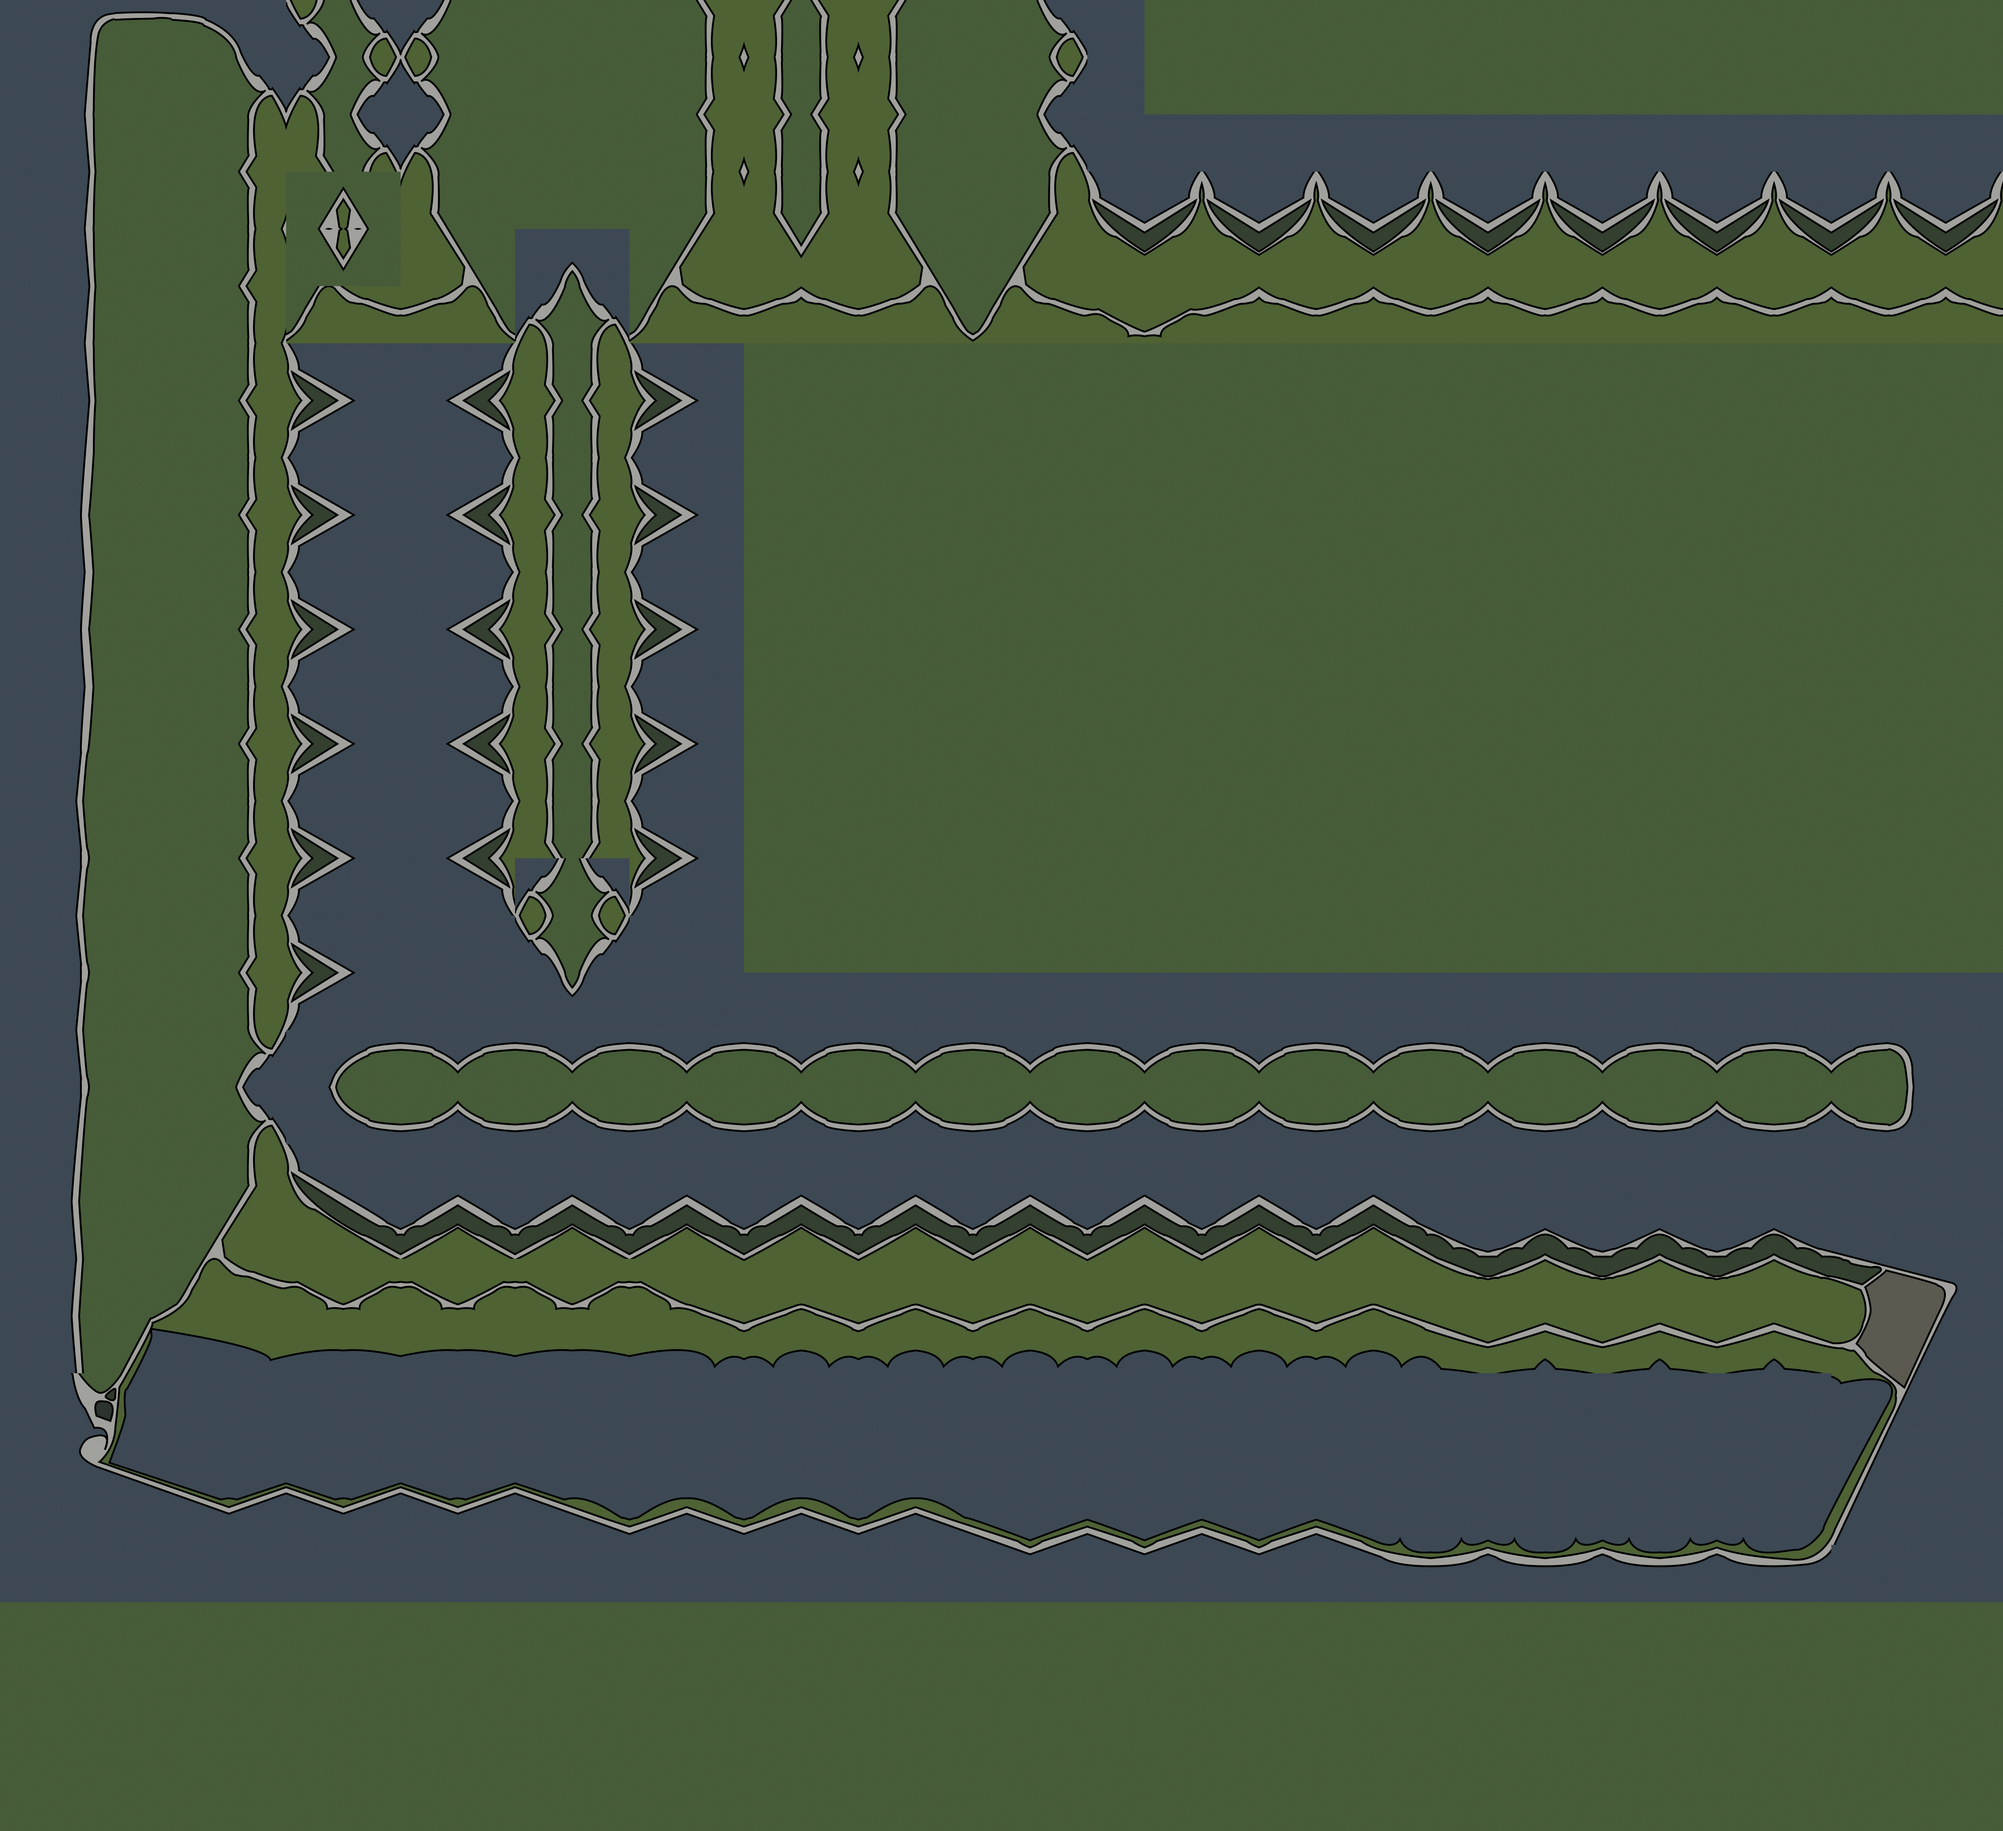
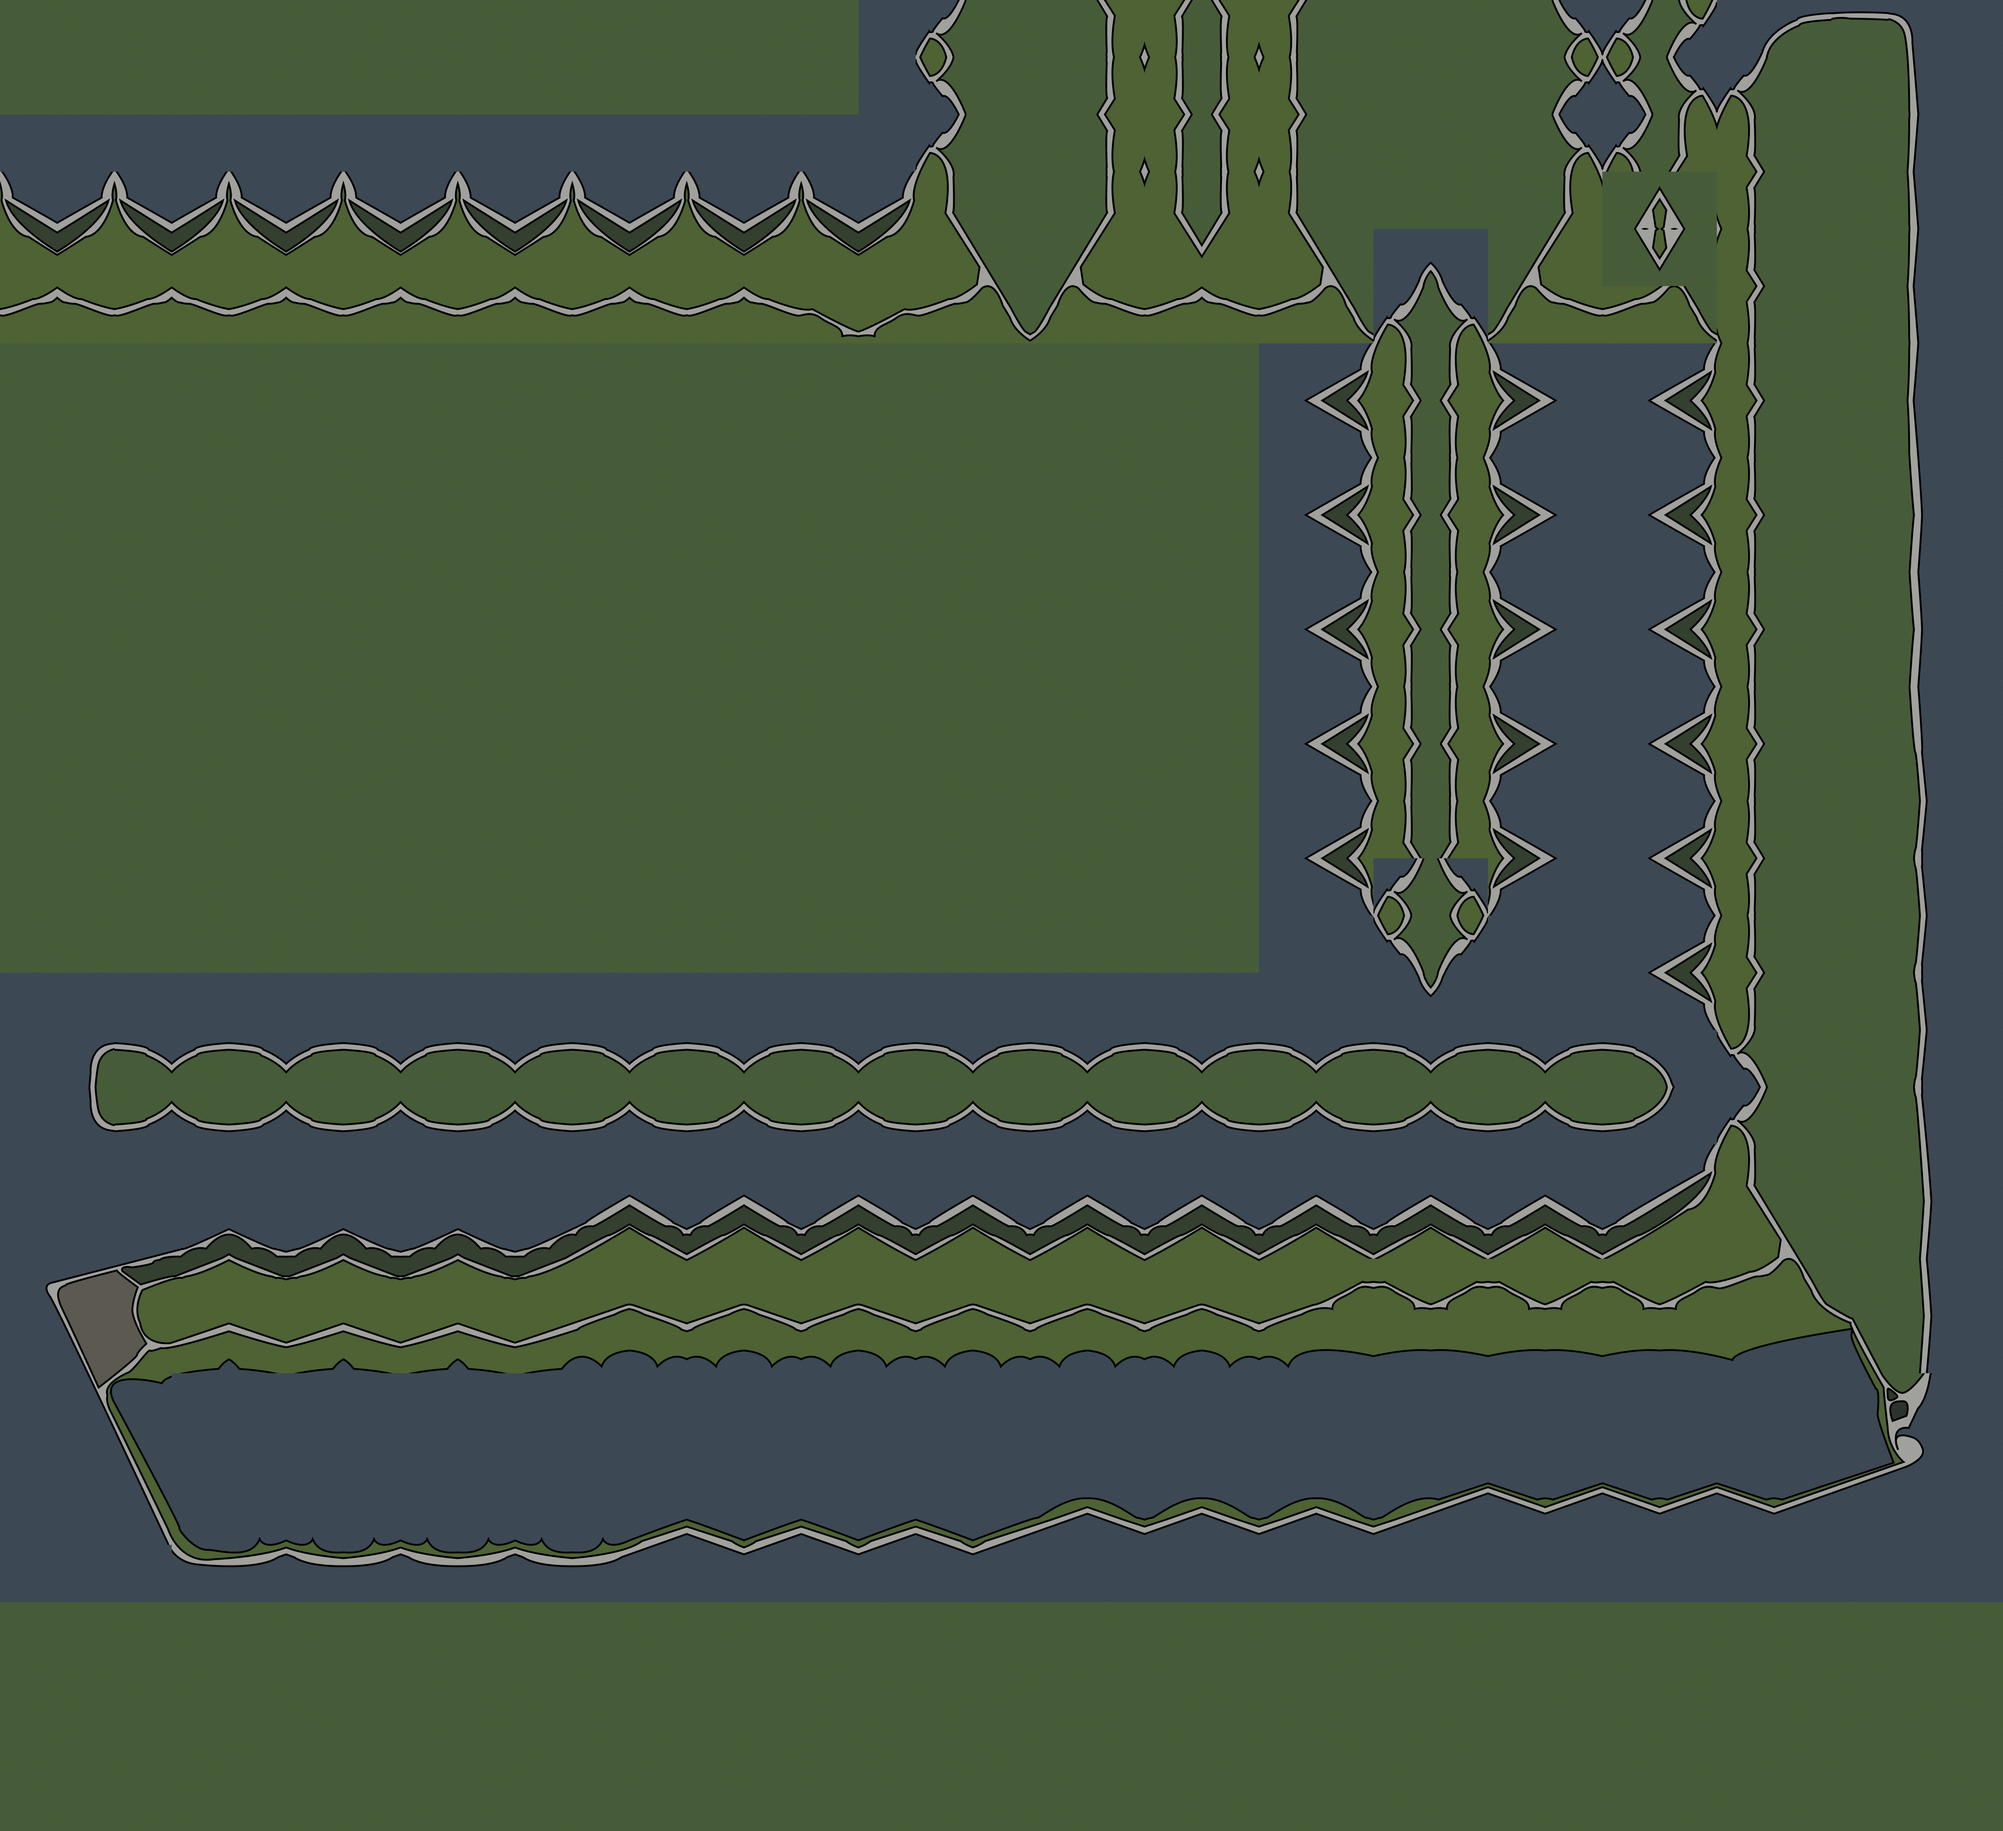
Player-enemy interaction impleneted. Additional animations as well.

diff --git a/level.py b/level.py
@@ -5,10 +5,11 @@ from tile import Tile
 from player import Player
 from debug import debug 
 from support import *
-from random import choice, random
+from random import choice, random, randint
 from weapon import Weapon
 from ui import UI
 from enemy import Enemy
+from particles import AnimationPlayer
 
 class Level:
 	def __init__(self):
@@ -22,6 +23,8 @@ class Level:
 
 		#attack sprites
 		self.current_attack = None
+		self.attack_sprites = pygame.sprite.Group()
+		self.attackable_sprites = pygame.sprite.Group()
 
 		# sprite setup 
 		self.create_map()
@@ -29,17 +32,21 @@ class Level:
 		#user interface 
 		self.ui = UI()
 
+		#particles 
+		self.animation_player = AnimationPlayer()
+
 	def create_map(self):
 		layouts = {
 			#'boundary': import_csv_layout('./map/map_FloorBlocks.csv'),
-			'boundary': import_csv_layout('./map/marshmapMkII_ground.csv'),
-			'grass': import_csv_layout('./map/map_Grass.csv'),
-			'object': import_csv_layout('./map/map_Objects.csv'),
-			'entities': import_csv_layout('./map/map_Entities.csv')
+			'boundary': import_csv_layout('./nic_map/nic_BoundaryBlocks.csv'),
+			'grass': import_csv_layout('./nic_map/nic_Grass.csv'),
+			'object': import_csv_layout('./nic_map/nic_Objects.csv'),
+			'entities': import_csv_layout('./nic_map/nic_Entities.csv')
 		}
 		grpahics = {
-			'grass': import_folder('./graphics/grass'),
-			'objects': import_folder('./graphics/objects'),
+			#'grass': import_folder('./graphics/grass'),
+			'grass': import_folder('./nic_map/grass'),
+			'objects': import_folder('./nic_map/objects'),
 		}
 
 		for style,layout in layouts.items():
@@ -56,7 +63,7 @@ class Level:
 						#creating grass tiles 
 						if style == 'grass':
 							random_grass_image = choice(grpahics['grass'])
-							Tile((x,y),[self.visible_sprites, self.obstacle_sprites],'grass',random_grass_image)				
+							Tile((x,y),[self.visible_sprites, self.obstacle_sprites,self.attackable_sprites],'grass',random_grass_image)				
 						
 						if style == 'object':
 							surf = grpahics['objects'][int(col)]
@@ -76,10 +83,16 @@ class Level:
 								elif col == '391': monster_name = 'spirit'
 								elif col == '392': monster_name = 'raccoon'
 								else: monster_name = 'squid'
-								Enemy(monster_name,(x,y),[self.visible_sprites],self.obstacle_sprites)
+								Enemy(
+									monster_name,
+									(x,y),
+									[self.visible_sprites,self.attackable_sprites],
+									self.obstacle_sprites,
+									self.damage_player,
+									self.trigger_death_particles)
 
 	def create_attack(self):
-		self.current_attack = Weapon(self.player,[self.visible_sprites])
+		self.current_attack = Weapon(self.player,[self.visible_sprites,self.attack_sprites])
 	
 	def create_magic(self,style,strength,cost):
 		print(style)
@@ -91,11 +104,37 @@ class Level:
 			self.current_attack.kill()
 		self.current_attack = None
 
+	def player_attack_logic(self):
+		if self.attack_sprites:
+			for attack_sprite in self.attack_sprites:
+				collision_sprites = pygame.sprite.spritecollide(attack_sprite,self.attackable_sprites,False)
+				if collision_sprites:
+					for target_sprite in collision_sprites:
+						if target_sprite.sprite_type == 'grass':
+							pos = target_sprite.rect.center
+							offset = pygame.math.Vector2(0,75)
+							for leaf in range(randint(3,6)):
+								self.animation_player.create_grass_particles(pos - offset,[self.visible_sprites])
+							target_sprite.kill()
+						else:
+							target_sprite.get_damage(self.player,attack_sprite.sprite_type)
+	
+	def damage_player(self,amount,attack_type):
+		if self.player.vulnerable:
+			self.player.health -= amount
+			self.player.vulnerable = False
+			self.player.hurt_time = pygame.time.get_ticks()
+			self.animation_player.create_particles(attack_type,self.player.rect.center,[self.visible_sprites])
+
+	def trigger_death_particles(self,pos,particle_type):
+		self.animation_player.create_particles(particle_type,pos,self.visible_sprites)
+
 	def run(self):
 		# update and draw game 
 		self.visible_sprites.custom_draw(self.player)
 		self.visible_sprites.update()
 		self.visible_sprites.enemy_update(self.player)
+		self.player_attack_logic()
 		self.ui.display(self.player)
 		#debug(self.player.status)
 
@@ -110,8 +149,8 @@ class YSortCameraGroup(pygame.sprite.Group):
 		self.offset = pygame.math.Vector2()
 
 		#creating the floor 
-		#self.floor_surf = pygame.image.load('./graphics/tilemap/ground.png')
-		self.floor_surf = pygame.image.load('./graphics/tilemap/MarshMapMkII.png')
+		self.floor_surf = pygame.image.load('./nic_map/64Map.png')
+		#self.floor_surf = pygame.image.load('./graphics/tilemap/MarshMapMkII.png')
 		self.floor_rect = self.floor_surf.get_rect(topleft = (0,0))
 
 	def custom_draw(self,player):

diff --git a/enemy.py b/enemy.py
@@ -4,7 +4,7 @@ from entity import Entity
 from support import *
 
 class Enemy(Entity):
-	def __init__(self,monster_name,pos,groups,obstacle_sprites):
+	def __init__(self,monster_name,pos,groups,obstacle_sprites,damage_player,trigger_death_particles):
 
 		# general setup
 		super().__init__(groups)
@@ -36,6 +36,13 @@ class Enemy(Entity):
 		self.can_attack = True
 		self.attack_time = None
 		self.attack_cooldown = 400
+		self.damage_player = damage_player
+		self.trigger_death_particles = trigger_death_particles
+
+		#invulnerablilty timer 
+		self.vulnerable = True 
+		self.hit_time = None 
+		self.invincibility_duration = 300
 
 	def import_graphics(self,name):
 		self.animations = {'idle':[],'move':[],'attack':[]}
@@ -70,7 +77,7 @@ class Enemy(Entity):
 	def actions(self,player):
 		if self.status == 'attack':
 			self.attack_time = pygame.time.get_ticks()
-			print('attack')
+			self.damage_player(self.attack_damage,self.attack_type)
 		elif self.status == 'move':
 			self.direction = self.get_player_distance_direction(player)[1]
 		else:
@@ -88,16 +95,46 @@ class Enemy(Entity):
 		self.image = animation[int(self.frame_index)]
 		self.rect = self.image.get_rect(center = self.hitbox.center)
 
-	def cooldown(self):
+		if not self.vulnerable:
+			alpha = self.wave_value()
+			self.image.set_alpha(alpha)
+		else:
+			self.image.set_alpha(255)
+
+	def cooldowns(self):
+		current_time = pygame.time.get_ticks()
 		if not self.can_attack:
-			current_time = pygame.time.get_ticks()
 			if current_time - self.attack_time >= self.attack_cooldown:
-				self.can_attack = True
+				self.can_attack = True 
+		if not self.vulnerable:
+			if current_time - self.hit_time >= self.invincibility_duration:
+				self.vulnerable = True
+
+	def get_damage(self,player,attack_type):
+		if self.vulnerable:
+			self.direction = self.get_player_distance_direction(player)[1]
+			if attack_type == 'weapon':
+				self.health -= player.get_full_weapon_damage()
+			else:
+				pass
+			self.hit_time = pygame.time.get_ticks()
+			self.vulnerable = False
+	
+	def check_death(self):
+		if self.health <= 0:
+			self.kill()
+			self.trigger_death_particles(self.rect.center,self.monster_name)
+
+	def hit_reaction(self):
+		if not self.vulnerable:
+			self.direction *= -self.resistance
 
 	def update(self):
+		self.hit_reaction()
 		self.move(self.speed)
 		self.animate()
-		self.cooldown()
+		self.cooldowns()
+		self.check_death()
 
 	def enemy_update(self,player):
 		self.get_status(player)

diff --git a/player.py b/player.py
@@ -6,7 +6,7 @@ from entity import Entity
 class Player(Entity):
     def __init__(self,pos,groups,obstacle_sprites,create_attack,destroy_attack,create_magic):
         super().__init__(groups)
-        self.image = pygame.image.load('./graphics/test/player.png').convert_alpha()
+        self.image = pygame.image.load('./graphics/test/Sasquatch.png').convert_alpha()
         self.rect = self.image.get_rect(topleft = pos)
         self.hitbox = self.rect.inflate(0,-26)
 
@@ -44,6 +44,11 @@ class Player(Entity):
         self.energy = self.stats['energy']
         self.exp = 100
         self.speed = self.stats['speed']
+
+        #damage timer 
+        self.vulnerable = True 
+        self.hurt_time = None 
+        self.invulnerability_duration = 500 
 
     def import_player_assets(self):
         character_path = './graphics/player/'
@@ -138,7 +143,7 @@ class Player(Entity):
         current_time = pygame.time.get_ticks()
 
         if self.attacking:
-            if current_time - self.attack_time >= self.attack_cooldown:
+            if current_time - self.attack_time >= self.attack_cooldown + weapon_data[self.weapon]['cooldown'] :
                 self.attacking = False
                 self.destroy_attack()
 
@@ -149,6 +154,10 @@ class Player(Entity):
         if not self.can_switch_magic:
             if current_time - self.magic_switch_time >= self.switch_duration_cooldown:
                 self.can_switch_magic = True
+
+        if not self.vulnerable:
+            if current_time - self.hurt_time >= self.invulnerability_duration:
+                self.vulnerable = True 
 
     def animate(self):
         animation = self.animations[self.status]
@@ -162,6 +171,17 @@ class Player(Entity):
         self.image = animation[int(self.frame_index)]
         self.rect = self.image.get_rect(center = self.hitbox.center)
 
+        #damage animation 
+        if not self.vulnerable:
+            alpha = self.wave_value()
+            self.image.set_alpha(alpha)
+        else:
+            self.image.set_alpha(255)
+
+    def get_full_weapon_damage(self):
+        base_damage = self.stats['attack']
+        weapon_damage = weapon_data[self.weapon]['damage']
+        return base_damage + weapon_damage 
 
     def update(self):
         self.input()

diff --git a/entity.py b/entity.py
@@ -1,4 +1,5 @@
 import pygame 
+from math import sin
 
 class Entity(pygame.sprite.Sprite):
     def __init__(self, groups):
@@ -33,3 +34,10 @@ class Entity(pygame.sprite.Sprite):
                         self.hitbox.bottom = sprite.hitbox.top
                     if self.direction.y < 0:
                         self.hitbox.top = sprite.hitbox.bottom
+    
+    def wave_value(self):
+        value = sin(pygame.time.get_ticks())
+        if value >= 0:
+            return 255
+        else:
+            return 0  

diff --git a/weapon.py b/weapon.py
@@ -3,6 +3,7 @@ import pygame
 class Weapon(pygame.sprite.Sprite):
     def __init__(self,player,groups):
         super().__init__(groups)
+        self.sprite_type = 'weapon'
         direction = player.status.split('_')[0]
         
         #graphic
